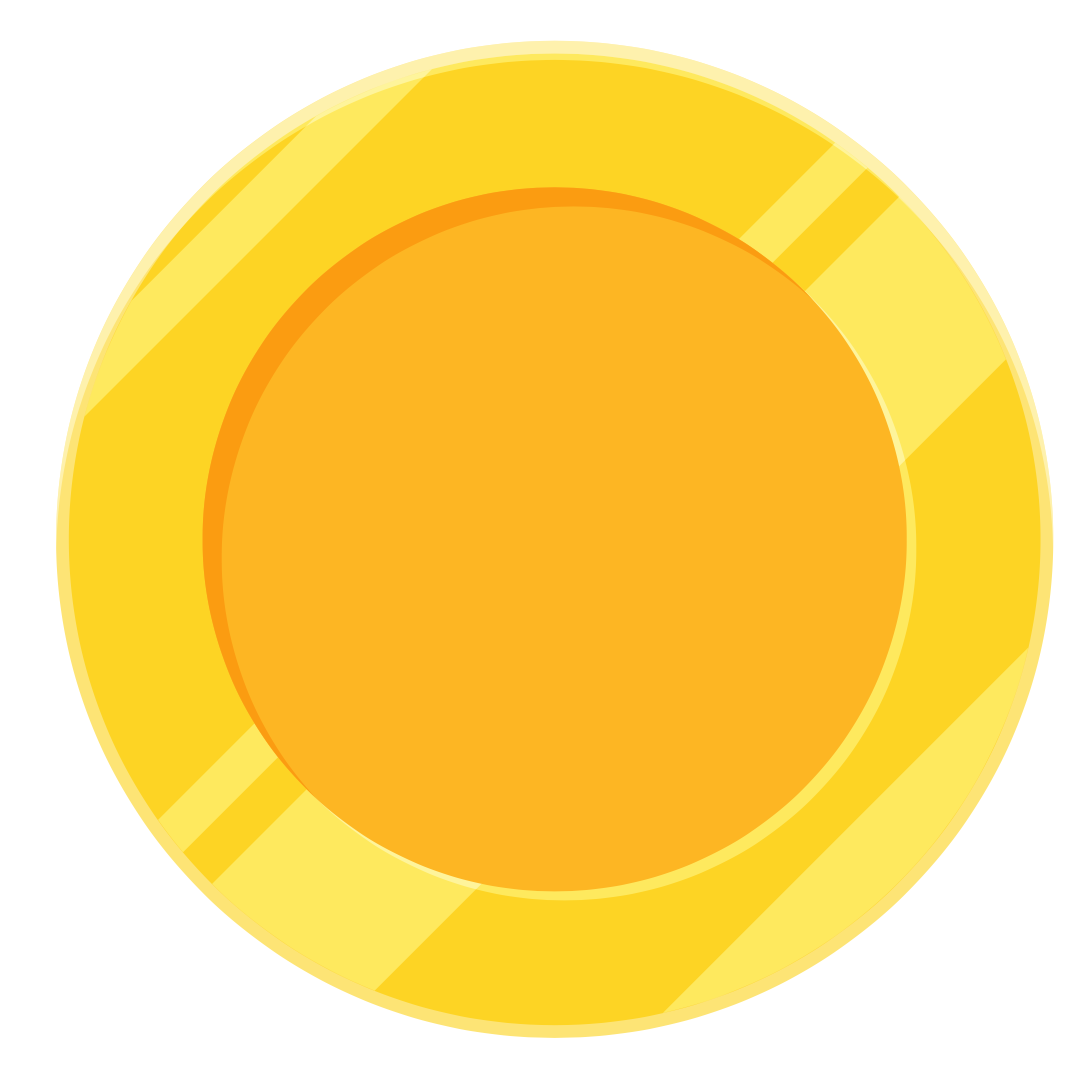
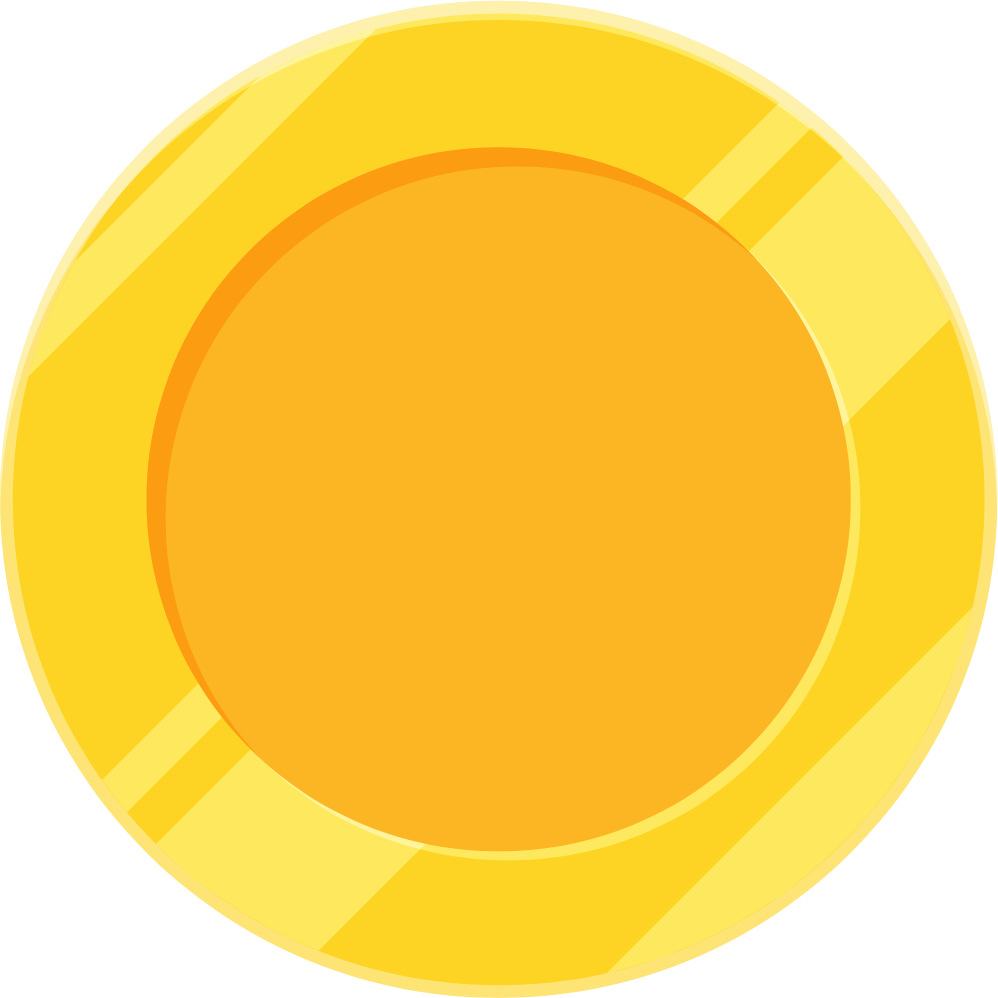
1

Changed region(s): [[0.0, 0.0, 1.0, 1.0]]

diff --git a/src/components/CoinButton.vue b/src/components/CoinButton.vue
@@ -72,6 +72,7 @@ onMounted(() => {
 
   .coin-button {
     //@include flex(row, center, center);
+    position: relative;
     cursor: pointer;
     opacity: 0;
     outline: none;
@@ -94,6 +95,9 @@ onMounted(() => {
       max-height: 367px;
       width: 100%;
       aspect-ratio : 1 / 1;
+
+      user-select: none;
+      touch-action: none;
     }
 
     &:after {
@@ -103,16 +107,23 @@ onMounted(() => {
       top: 50%;
       left: 50%;
       transform: translate(-50%, -50%);
-      background-size: contain;
-      background-image: url('@/assets/img/btn-yellow-blur.png');
-      //background: #FDB623 center;
+      //background-size: contain;
+      //background-image: url('@/assets/img/btn-yellow-blur.png');
+      background: #FDB623;
+      //background-position: center;
+      //background-repeat: no-repeat;
       filter: blur(100px);
       z-index: 0;
 
       //max-width: 367px;
       //max-height: 367px;
-      width: 110vw;
-      aspect-ratio : 1 / 1;
+      //width: 100vw;
+      width: 535px;
+      height: 467px;
+      border-radius: 50%;
+
+      user-select: none;
+      touch-action: none;
     }
 
     @media (max-height: 660px) {

diff --git a/src/App.vue b/src/App.vue
@@ -12,9 +12,9 @@ const main = ref(null)
 const tg = window.Telegram.WebApp
 
 passportStore().userAuth()
-// const id = '286133104'
-// passportStore().setTgUserId(id)
-passportStore().setTgUserId(tg?.initDataUnsafe?.user?.id)
+const id = '286133104'
+passportStore().setTgUserId(id)
+// passportStore().setTgUserId(tg?.initDataUnsafe?.user?.id)
 
 </script>
 
